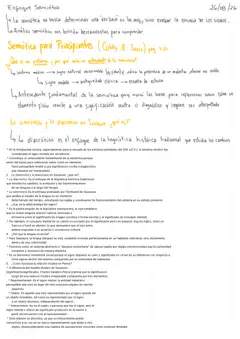
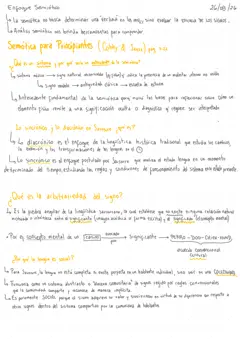
Contenido nuevo del cuaderno (TP2): 18 hojas
- Hojas tomadas de TP2 SEMIOTICA-CENTENO LOURDES.pdf: la página 1 es la tapa (igual a la anterior) y las 2 a 19 son las hojas
- Si la cantidad de páginas queda impar en doble hoja, se agrega el interior de contratapa en blanco
- Interiores de tapa y contratapa en papel más claro para que se distingan del fondo

Claude-Session: https://claude.ai/code/session_01GG5otxmDYfW1iH1TWVSRuT

Changed region(s): [[0.0, 0.1475, 0.9917, 0.9735]]

diff --git a/js/app.js b/js/app.js
@@ -6,7 +6,7 @@
 
   /* ---------- Configuración ---------- */
   // La página 1 del PDF es la tapa; las hojas del cuaderno son las páginas 2 a 10.
-  var TOTAL_SHEETS = 9; // cantidad de hojas (sin contar la tapa)
+  var TOTAL_SHEETS = 18; // cantidad de hojas (sin contar la tapa)
   var RATIO = 1600 / 2263; // ancho / alto de cada hoja (A4)
 
   var pad = function (n) { return String(n).padStart(2, '0'); };
@@ -37,12 +37,21 @@
     page.innerHTML = '<div class="sheet"><img src="' + sheetSrc(i) + '" alt="Hoja ' + i + ' del cuaderno" decoding="async" draggable="false"></div>';
     bookEl.insertBefore(page, backCover);
   }
-  // Doble hoja: 0 tapa · 1 interior de tapa · 2..10 hojas · 11 contratapa (cantidad par, como pide StPageFlip)
-  // Una hoja (celular): se quita el interior de tapa → 0 tapa · 1..9 hojas · 10 contratapa
+  // Doble hoja: tapa · interior de tapa · hojas · [interior de contratapa] · contratapa.
+  // StPageFlip necesita una cantidad par: si hace falta se agrega el interior de contratapa (en blanco),
+  // así la última hoja queda sola y al pasarla se cierra el cuaderno.
+  // Una hoja (celular): se quitan los interiores → tapa · hojas · contratapa.
+  if ((TOTAL_SHEETS + 3) % 2 === 1) {
+    var innerBack = document.createElement('div');
+    innerBack.className = 'page page--inner page--inner-back';
+    innerBack.dataset.density = 'hard';
+    innerBack.innerHTML = '<div class="inner"></div>';
+    bookEl.insertBefore(innerBack, backCover);
+  }
   var allPages = Array.prototype.slice.call(bookEl.querySelectorAll('.page'));
   var loadedPortrait = false;
   function pagesFor(p) { return p ? allPages.filter(function (el) { return !el.classList.contains('page--inner'); }) : allPages; }
-  function lastIndex() { return loadedPortrait ? TOTAL_SHEETS + 1 : TOTAL_SHEETS + 2; }
+  function lastIndex() { return pagesFor(loadedPortrait).length - 1; }
   function sheetToIndex(n) { return loadedPortrait ? n : n + 1; }
 
   /* ---------- Tamaño del libro (que entre en pantalla) ---------- */

diff --git a/css/styles.css b/css/styles.css
@@ -151,7 +151,7 @@ body.side .stage { padding-left: 310px; }
 
 /* Interior de la tapa y contratapa: mismo papel de la tapa */
 .inner, .back { background: var(--grain), var(--paper); }
-.inner { background: var(--grain), #dcd6c7; }
+.inner { background: var(--grain), #f5f2ea; }
 .back__frame { position: absolute; inset: 3.2%; border: 1px solid rgba(26,26,26,.7); }
 .back .dots { position: absolute; right: 9%; bottom: 7.5%; gap: calc(var(--pw) * .012); }
 .back .dots i { width: calc(var(--pw) * .028); height: calc(var(--pw) * .028); }

diff --git a/README.md b/README.md
@@ -20,7 +20,7 @@ Sitio estático hecho con HTML, CSS y JavaScript, sin pasos de compilación.
 index.html               página
 css/styles.css           estilos
 js/app.js                lógica del cuaderno
-assets/paginas/          una imagen por página del PDF (pagina-01.webp es la tapa, 02 … 10 son las hojas)
+assets/paginas/          una imagen por página del PDF (pagina-01.webp es la tapa, 02 … 19 son las hojas)
 assets/miniaturas/       miniaturas para el índice
 assets/vendor/           StPageFlip 2.0.7 (licencia MIT), la librería del paso de hojas
 ```
